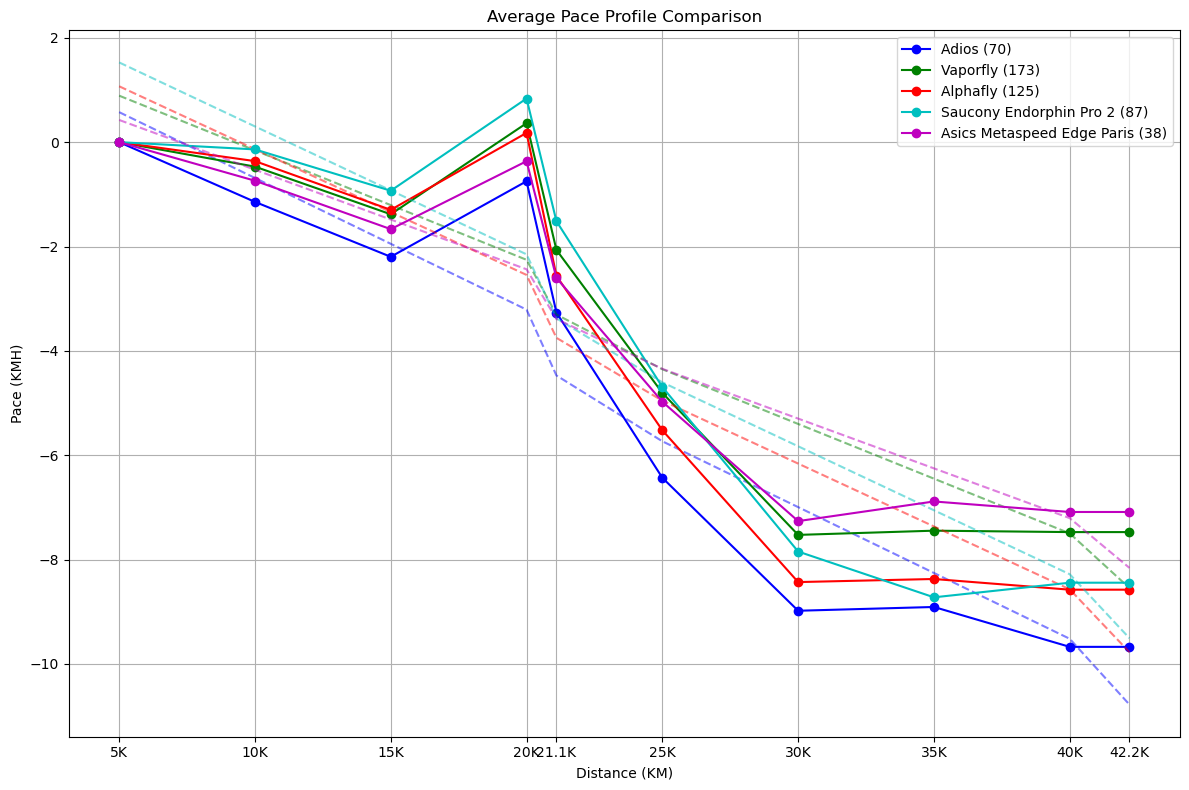
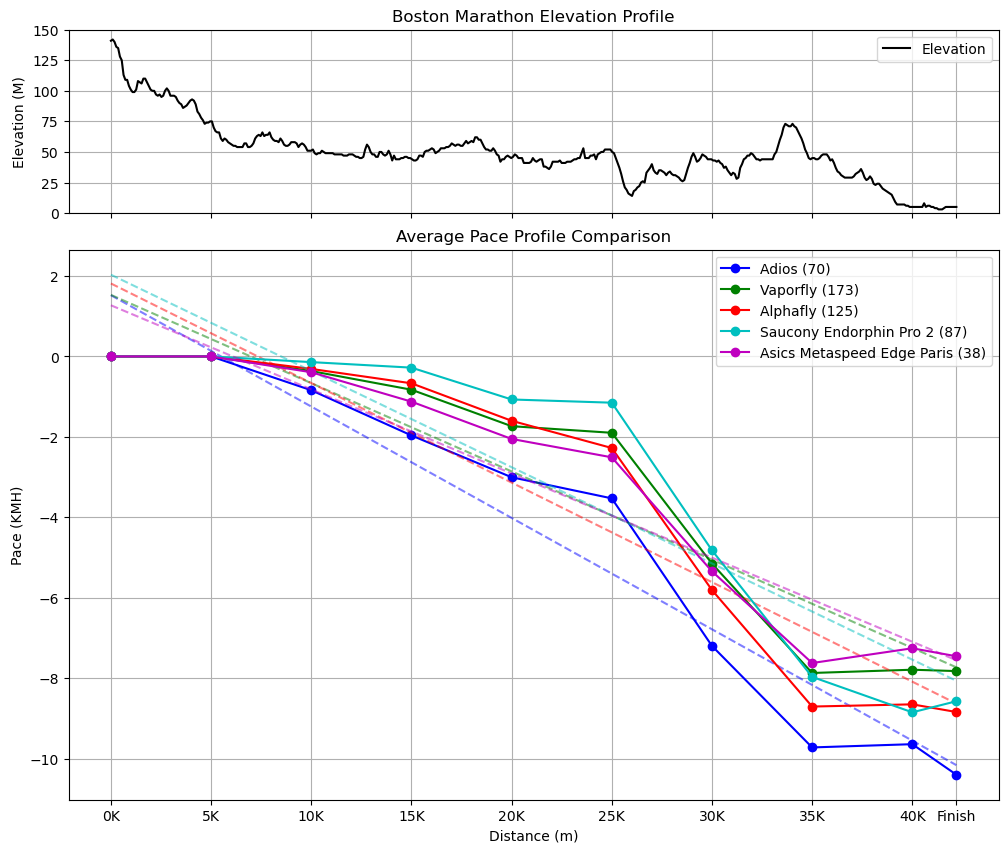
might have broken the scraping code

diff --git a/src/visualization/optimize.py b/src/visualization/optimize.py
@@ -10,10 +10,11 @@ from statsmodels.stats.anova import AnovaRM
 from statsmodels.stats.multicomp import pairwise_tukeyhsd
 import statsmodels.api as sm
 
+# Set matplotlib style
+plt.style.use('seaborn-v0_8-dark-palette')
 # Constants
 MINIMUM_RUNNERS = 20
 FIGURE_SIZE = (12, 8)
-COLORS = ['b', 'g', 'r', 'c', 'm', 'y', 'k', '#FFA500', '#800080', '#008080']
 SIGNIFICANCE_LEVEL = 0.05
 CHECKPOINT_DISTANCES = ['0K', '5K', '10K', '15K', '20K', '25K', '30K', '35K', '40K', 'Finish']  # distances in KM
 CHECKPOINT_METERS = [0,5000,10000,15000,20000,25000,30000,35000,40000,42200]  # convert to meters, marathon is 42.195km
@@ -90,6 +91,7 @@ def plot_elevation_profile(ax):
     # Convert kilometers to meters in the elevation data
     elevation_data['Distance (M)'] = elevation_data['Distance (M)'] * 1000
     ax.plot(elevation_data['Distance (M)'], elevation_data['Elevation (M)'], 'k-', label='Elevation')
+    ax.fill_between(elevation_data['Distance (M)'], elevation_data['Elevation (M)'], color='lightgrey', alpha=0.5)
     ax.set_ylabel('Elevation (M)')
     ax.set_title('Boston Marathon Elevation Profile')
     ax.set_xticks(CHECKPOINT_METERS)
@@ -98,7 +100,7 @@ def plot_elevation_profile(ax):
     ax.grid(True)
 
     
-def plot_shoe_data(data_to_plot: pd.DataFrame, name: str, color: str, 
+def plot_shoe_data(data_to_plot: pd.DataFrame, name: str, 
                    trendline_data: Dict, ax) -> None:
     """Plot data for a specific shoe or shoe family."""
     runner_count = len(data_to_plot)
@@ -118,8 +120,9 @@ def plot_shoe_data(data_to_plot: pd.DataFrame, name: str, color: str,
         'n': len(processed_data.columns)
     }
     
-    ax.plot(x, avg_curve.values, f'{color}o-', label=f'{name} ({runner_count})')
-    ax.plot(x, slope * x + intercept, f'{color}--', alpha=0.5)
+    # Let matplotlib use its default color cycle
+    ax.plot(x, avg_curve.values, 'o-', label=f'{name} ({runner_count})')
+    ax.plot(x, slope * x + intercept, '--', alpha=0.5)
 
 def analyze_data(data: pd.DataFrame, shoe_choices: np.ndarray) -> Dict:
     """Analyze and visualize shoe performance data."""
@@ -147,8 +150,7 @@ def analyze_data(data: pd.DataFrame, shoe_choices: np.ndarray) -> Dict:
         processed_shoes.update(family_shoes)
         
         if len(family_data) >= MINIMUM_RUNNERS:
-            plot_shoe_data(family_data, family.name, 
-                          COLORS[plot_index % len(COLORS)], trendline_data, ax2)
+            plot_shoe_data(family_data, family.name, trendline_data, ax2)
             plot_index += 1
     
     # Process remaining individual shoes
@@ -156,11 +158,11 @@ def analyze_data(data: pd.DataFrame, shoe_choices: np.ndarray) -> Dict:
         if shoe not in processed_shoes:
             shoe_data = data[data['shoeChoice'] == shoe]
             if len(shoe_data) >= MINIMUM_RUNNERS:
-                plot_shoe_data(shoe_data, shoe, 
-                             COLORS[plot_index % len(COLORS)], trendline_data, ax2)
+                plot_shoe_data(shoe_data, shoe, trendline_data, ax2)
                 plot_index += 1
     
     configure_plot(ax2)
+    # plt.tight_layout()
     plt.show()
     return trendline_data
 
@@ -168,11 +170,14 @@ def configure_plot(ax) -> None:
     """Configure plot parameters."""
     ax.set_title('Average Pace Profile Comparison')
     ax.set_xlabel('Distance (m)')
-    ax.set_ylabel('Pace (KMH)')
+    ax.set_ylabel('Percent Pace Change')
+    ax.set_xlim(-500, 42700)
     ax.set_xticks(CHECKPOINT_METERS)
     ax.set_xticklabels(CHECKPOINT_DISTANCES)  # Add thousands separator
     ax.legend(loc='upper right')
     ax.grid(True)
+    
+
 
 
 
